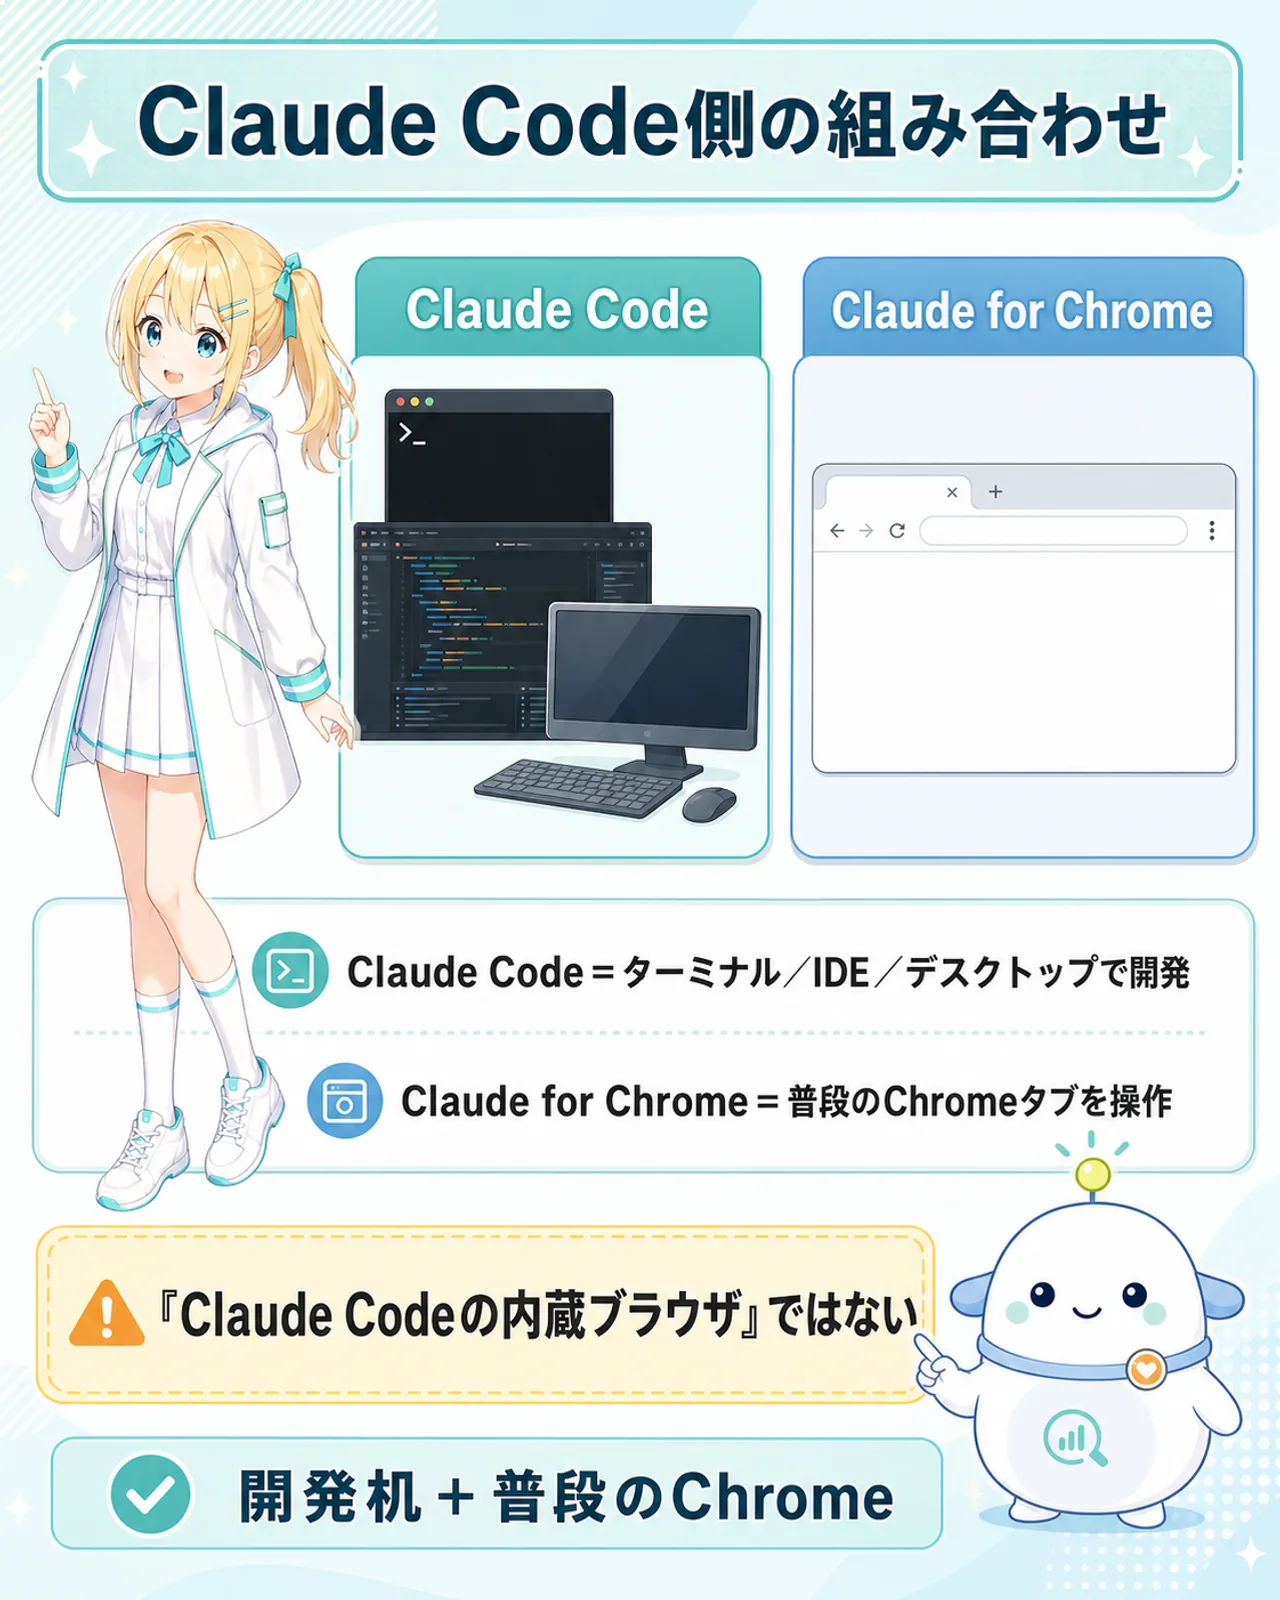
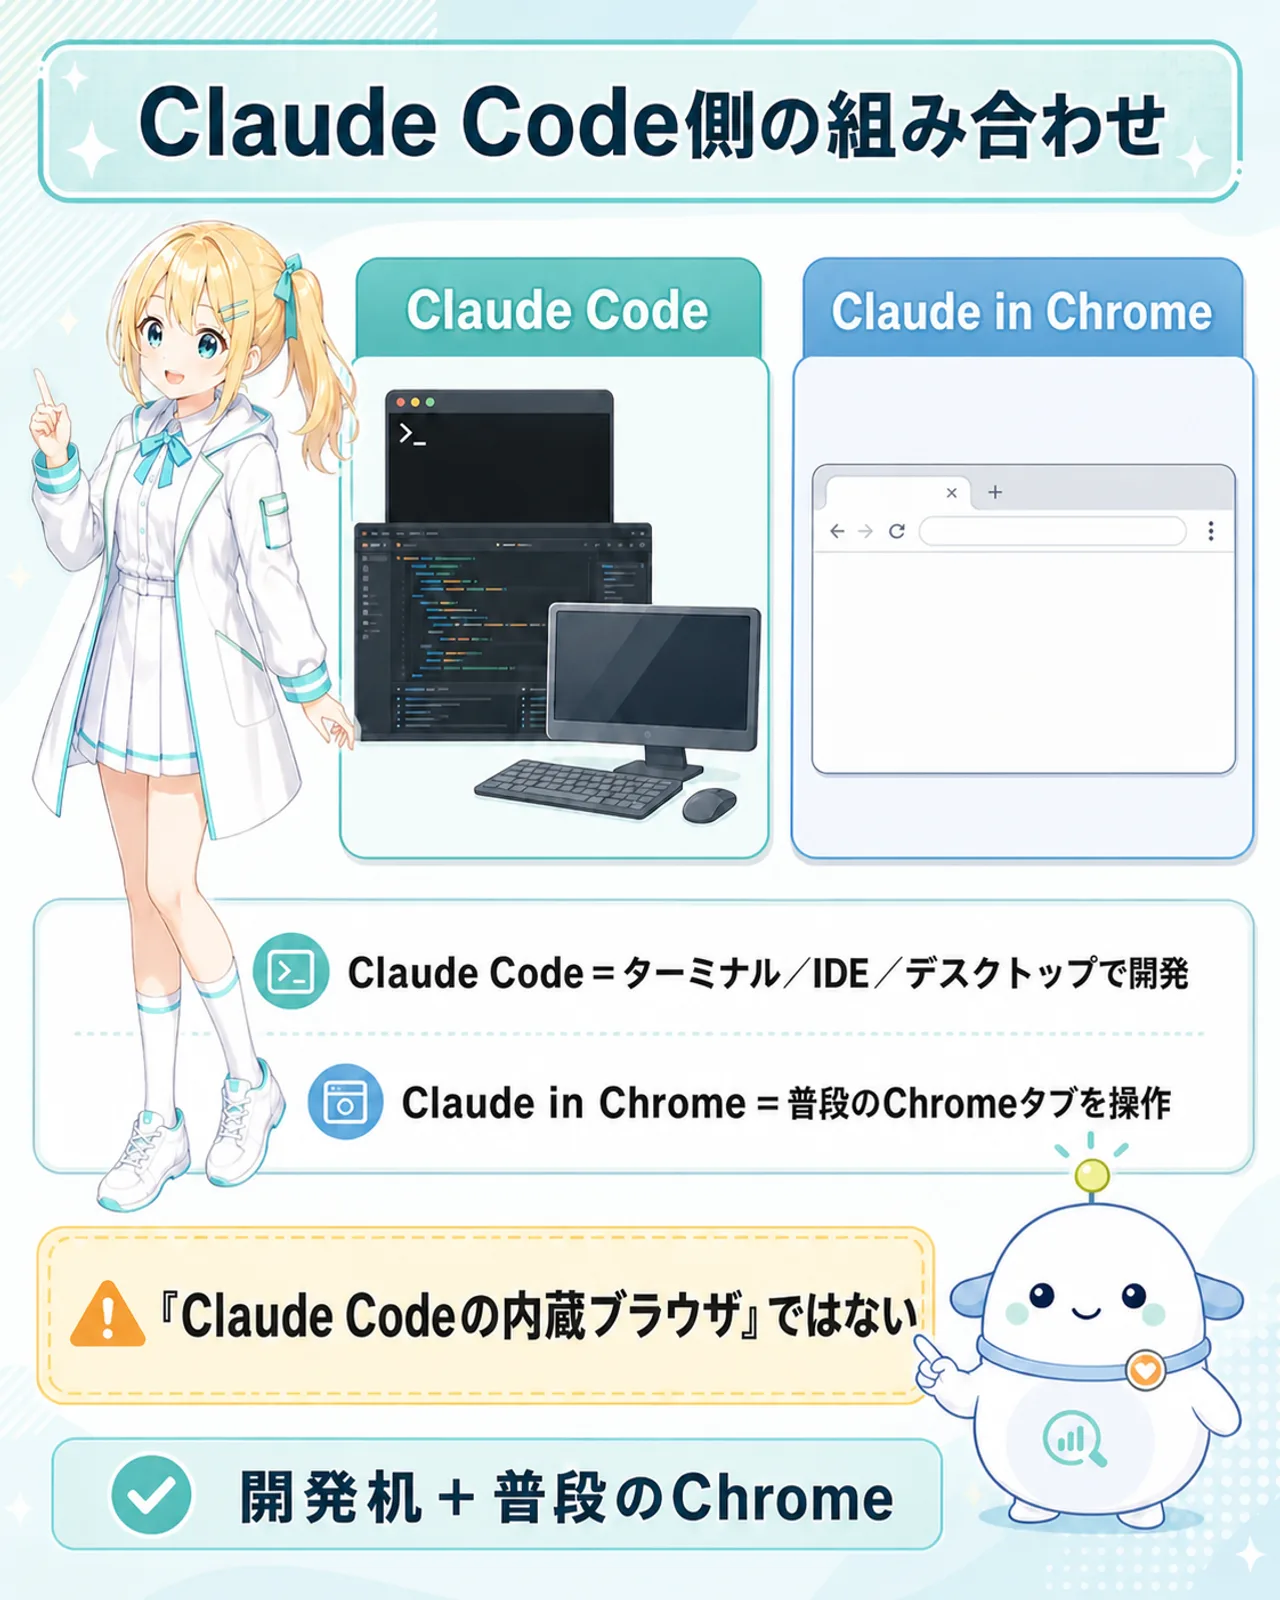
fix: correct Codex article names and add hands-on category

diff --git a/src/lib/categories.ts b/src/lib/categories.ts
@@ -5,6 +5,11 @@ export const categories = [
     description: "AI・スマホ・ガジェットのニュースを、普通の人にもわかるように整理します。",
   },
   {
+    name: "やってみた・検証",
+    slug: "hands-on",
+    description: "実際に使って・試して分かったことを、体験ベースで整理します",
+  },
+  {
     name: "スマホの選び方",
     slug: "smartphone",
     description: "iPhone、Android、中古スマホなど、買い替えや選び方で迷いやすいポイントを整理します。",

diff --git a/src/styles/global.css b/src/styles/global.css
@@ -57,6 +57,8 @@
 
   --cat-news: #34549c;
   --cat-news-tint: #e8edf8;
+  --cat-hands-on: #9a5b00;
+  --cat-hands-on-tint: #fbf2e0;
   --cat-smartphone: #3a7d8a;
   --cat-smartphone-tint: #dfecef;
   --cat-mobile-plan: #1f7a6e;
@@ -145,6 +147,7 @@ html.dark {
 
   --cat-news: #9ab2ec;
   --cat-news-tint: #232d42;
+  --cat-hands-on-tint: #332813;
   --cat-smartphone: #6cb0bd;
   --cat-smartphone-tint: #1d2c30;
   --cat-mobile-plan: #63c7b8;

diff --git a/src/content.config.ts b/src/content.config.ts
@@ -4,6 +4,7 @@ import { glob } from "astro/loaders";
 const articleType = z.enum(["foundation", "revenue", "news"]);
 const articleCategory = z.enum([
   "ニュースをかみくだく",
+  "やってみた・検証",
   "スマホの選び方",
   "通信費を下げる",
   "周辺機器・ガジェット",

diff --git a/docs/affiliate_setup.md b/docs/affiliate_setup.md
@@ -8,7 +8,7 @@
 
 ## 0. すまラボの設計（前提の再確認）
 
-- **二層構造**: ニュース記事（type: news）には広告を入れない。収益導線は資産記事（type: revenue / foundation の比較・選び方系）と「周辺機器・ガジェット」「スマホの選び方」「通信費を下げる」カテゴリ限定
+- **二層構造**: ニュース記事（type: news）と「やってみた・検証」（hands-on）には当面広告を入れない。収益導線は資産記事（type: revenue / foundation の比較・選び方系）と「周辺機器・ガジェット」「スマホの選び方」「通信費を下げる」カテゴリ限定
 - **主軸 = 物販**（Amazon / 楽天 / Yahoo!ショッピング、**もしもアフィリエイト**経由）
 - **従 = SIM 系など高単価 ASP 案件**（**A8.net**、資産記事限定・CTABox 使用）
 - 広告を含む記事は frontmatter `hasAffiliate: true` → 記事冒頭に広告表示ラベルが自動表示（景表法ステマ規制対応）。ラベル無し・ニュース混入は `sumalabo:gate` が不合格にする
@@ -101,6 +101,6 @@ SIM 系など高単価案件用。**登録時サイト審査が実質なし**で
 ## 6. 運用ルール（再掲・gate が機械的に強制するもの）
 
 - アフィリエイトリンク / ProductCard / CTABox / AffiliateLinks を含む記事は **`hasAffiliate: true` 必須**（無いと gate 不合格）→ 記事冒頭に「本記事は広告（アフィリエイトリンク）を含みます」が自動表示
-- **type: news の記事にアフィリエイトは一切不可**（リンク・コンポーネント・hasAffiliate すべて gate 不合格）
+- **type: news または category: やってみた・検証 の記事にアフィリエイトは当面不可**（リンク・コンポーネント・hasAffiliate すべて gate 不合格）。将来解禁する場合も `hasAffiliate: true` と広告表示を必須にする。
 - 台帳（ledger.json）に `hasAffiliate` が写像される（`ledger.mjs --sync`）。広告あり記事の流入・成果分析の下地
 - リンクの rel は自動制御: アフィリエイト時 `nofollow sponsored noopener` / 通常リンク時 `noopener`

diff --git a/docs/update_rhythm.md b/docs/update_rhythm.md
@@ -2,11 +2,12 @@
 
 すまラボの「何を・どの頻度で・どう更新するか」を固定する文書。
 
-## 記事の3レーン
+## 記事の4レーン
 
 | レーン | 頻度 | テンプレ | ソース |
 |---|---|---|---|
 | ニュース記事（流入） | testMode/無人runの自動運転（1晩1本まで） | A ニュース解説 / B 続報・経緯型 | scout（RSS収集→採点→autoPick） |
+| **独自・検証レーン（鮮度で古びない資産記事）** | **実体験・検証テーマがあるとき** | **体験起点（試したこと→変化→一般化できる教訓）** | 当サイトの実体験・運用実例・実機検証 |
 | **資産記事（evergreen）** | **月1本** | **C 比較・選び方型（結論の表を先に）** | `drafts/ideas-evergreen.md` の上から順に消化 |
 | 既存記事の更新 | 随時（事実が動いたとき） | 元記事のまま | 鮮度チェック（7日ルール）・公式変更の検知 |
 
@@ -17,6 +18,12 @@
 3. ニュース記事と同じ品質ゲートを通す（gate full / 画像ファクトチェック / 禁則）
 4. 公開後は `ideas-evergreen.md` の該当行に公開URLを追記して消化管理
 5. **月次メンテ**: 公開済み資産記事は毎月1回、事実（価格・提供条件）を公式で見直し、変更があれば本文修正 + frontmatter `updated` を更新（sitemap の lastmod が動き、検索エンジンに更新が伝わる）
+
+## 独自・検証レーンの分類ルール
+
+- 当サイトの実体験・実機検証・運用実例が記事の核なら、カテゴリは `やってみた・検証`（`hands-on`）にする。
+- 単なる新製品発表の紹介や公式発表の要約は、従来どおり `ニュースをかみくだく` にする。
+- `hands-on` は当面ニュースレーンと同じ無広告原則を適用する。将来、検証記事に関連商品を載せる場合は `hasAffiliate` と広告表示の運用を先に整備してから変更する。
 
 ## 陳腐化を防ぐ書き方（資産記事共通）
 

diff --git a/drafts/refinement/202607-openai-codex-claude-code-browser-imagegen/research_report.md b/drafts/refinement/202607-openai-codex-claude-code-browser-imagegen/research_report.md
@@ -10,7 +10,7 @@
 - Codex/ChatGPTのbuilt-in画像生成はgpt-image-2を使い、一般のCodex利用上限から消費される。CLIでは参照画像を添付でき、成果物をファイルとして保存できる。
 - Computer Useは対応地域のmacOS/Windowsで、Work modeまたはCodexからGUIを操作できる。macOSにはバックグラウンド/Locked use系の機能があるが、地域・OS・設定に依存する。
 - Claude Codeはターミナルからコードベースを読み、ファイルを変更し、テストを実行するエージェント型コーディングシステム。ターミナル、IDE、Claude Desktopからローカル/リモートセッションを扱える。
-- Claude for ChromeはClaude Code本体ではなく、ClaudeがユーザーのChromeタブを操作する拡張。既存タブ・ログイン済みサイトを使える。
+- Claude in ChromeはClaude Code本体ではなく、ClaudeがユーザーのChromeタブを操作する拡張。既存タブ・ログイン済みサイトを使える。
 - Claude Pro/MaxではClaudeアプリとClaude Codeが利用枠を共有する。
 
 ## 本サイトの運用実例（一次資料=リポジトリ内の運用記録）
@@ -40,6 +40,5 @@
 - OpenAI Computer Use: https://learn.chatgpt.com/docs/computer-use
 - Anthropic Claude Code: https://www.anthropic.com/product/claude-code
 - Anthropic Claude Code setup: https://docs.anthropic.com/en/docs/claude-code/getting-started
-- Anthropic Claude Code in desktop / Claude for Chrome: https://www.anthropic.com/news/claude-opus-4-5
+- Anthropic Claude Code in desktop / Claude in Chrome: https://www.anthropic.com/news/claude-opus-4-5
 - Anthropic Pro/Max shared usage: https://support.anthropic.com/en/articles/11145838-using-claude-code-with-your-pro-or-max-plan
-

diff --git a/drafts/refinement/202607-openai-codex-claude-code-browser-imagegen/slide_plan.md b/drafts/refinement/202607-openai-codex-claude-code-browser-imagegen/slide_plan.md
@@ -26,7 +26,7 @@
 
 ## slide04（4:5）— Claude Codeとの違い
 - 見出し帯: Claude Code側の組み合わせ
-- 要素: Claude Code=ターミナル/IDE/デスクトップで開発 / Claude for Chrome=普段のChromeタブを操作 / 「Claude Codeの内蔵ブラウザ」ではない / 開発机+普段のChrome
+- 要素: Claude Code=ターミナル/IDE/デスクトップで開発 / Claude in Chrome=普段のChromeタブを操作 / 「Claude Codeの内蔵ブラウザ」ではない / 開発机+普段のChrome
 - キャラ: ひまりが名称カードを分け、らぼまるが混同注意。中立。
 
 ## slide05（4:5）— ログイン・準備・安定性
@@ -50,8 +50,7 @@
 - キャラ: ひまりが少ない手数の道を選び、らぼまるが「何をさせたいかで選ぼう」。明るい締め。
 
 ## 生成メモ
-- 全9枚で日本語の誤字を最優先検品。「Codex」「Claude Code」「Claude for Chrome」「localhost」の表記を厳守。
+- 全9枚で日本語の誤字を最優先検品。「Codex」「Claude Code」「Claude in Chrome」「localhost」の表記を厳守。
 - 実在企業ロゴは描かず、英字名は文字情報としてのみ使う。
 - キャラクター正本2枚を毎回参照。らぼまるは黄緑アンテナ1本、青い首輪バンド、左右の青い耳ビレ、胸のオレンジのハートボタンを保持。
 - 生成工程と独立検品は分離する。
-

diff --git a/drafts/refinement/202607-openai-codex-claude-code-browser-imagegen/editorial_selection.md b/drafts/refinement/202607-openai-codex-claude-code-browser-imagegen/editorial_selection.md
@@ -10,7 +10,7 @@
 
 1. Codexは「コードを書くAI」より、ファイル・ブラウザ・画像・検証をまたいで完了条件まで進む働くAIと説明する。
 2. 内蔵ブラウザは専用プロファイル、Chrome拡張は普段のChromeという差を、ログイン・準備・安定性の3軸で整理する。
-3. Claude CodeとClaude for Chromeを混同しない。Claude Codeはターミナル/デスクトップ側、ブラウザ操作はClaude for Chromeと明示する。
+3. Claude CodeとClaude in Chromeを混同しない。Claude Codeはターミナル/デスクトップ側、ブラウザ操作はClaude in Chromeと明示する。
 4. 本サイトの画像運用変更は1段落に抑え、誇張せず「生成以前の格闘が消えた」と説明する。
 5. 結論は4象限（会話と執筆 / コード / ブラウザ / 画像量産）。どちらが上かではなく、何をさせたいかで選ぶ。
 
@@ -28,4 +28,3 @@
 - 作ったWebをlocalhostで確認し、環境を分離したい → 内蔵ブラウザが便利
 - コード中心 → どちらも候補。既存の開発習慣と指示資産で決める
 - 画像を繰り返しファイル化したい → UI操作の段数より、保存まで自動化できる経路を優先
-

diff --git a/drafts/refinement/202607-openai-codex-claude-code-browser-imagegen/revised_article.md b/drafts/refinement/202607-openai-codex-claude-code-browser-imagegen/revised_article.md
@@ -2,10 +2,9 @@
 
 # 修正反映メモ
 
-- 「Claude CodeのChrome拡張」を「Claude for Chrome」に修正し、製品境界を明記。
+- 「Claude CodeのChrome拡張」を正式表記「Claude in Chrome」に修正し、製品境界を明記。
 - Codexの提供面は公式マニュアルどおり、デスクトップ/Web・クラウド/CLI/IDE/iOSを中心に記述。
 - 内蔵ブラウザは専用プロファイル、既存ログイン利用はChrome拡張という例外を追加。
 - 本サイト実例は、CF_HDROP・フォーカス・待機・ダウンロードという工程が消えた範囲に限定。
 - ベンチマーク・知能優劣を削除。判断表を4用途に整理。
 - 最新機能はOS・地域・プラン依存の注記を追加。
-

diff --git a/drafts/refinement/202607-openai-codex-claude-code-browser-imagegen/review_report.md b/drafts/refinement/202607-openai-codex-claude-code-browser-imagegen/review_report.md
@@ -6,7 +6,7 @@
 
 - Codexの公式な提供面とPlus以上の利用を公式マニュアルで確認。API利用は別課金として分離。OK。
 - 内蔵Browserは専用プロファイル、Chrome拡張は既存プロファイルという公式説明に合わせた。OK。
-- Claude CodeとClaude for Chromeを別製品として記述。OK。
+- Claude CodeとClaude in Chromeを別製品として記述。OK。
 - Computer Use/バックグラウンド系は対応地域・OS・設定依存と明記。OK。
 
 ## Pass 2 — 中立性・すまラボらしさ
@@ -30,4 +30,3 @@
 4. facts/claims/uncertainを分離: pass
 5. 禁則表現0件: pass
 6. スライド8枚+サムネの論点確定: pass
-

diff --git a/docs/uwsc_chatgpt_file_attach_test.md b/docs/uwsc_chatgpt_file_attach_test.md
@@ -72,7 +72,7 @@
 
 ## 成功した順序（人間が事前に整える）
 
-- ChromeにClaude for Chrome拡張をインストールし、Claude Codeセッションとペアリングする
+- ChromeにClaude in Chrome拡張をインストールし、Claude Codeセッションとペアリングする
 - 接続名はChromeとわかる名前にする（Edgeの拡張は使わない）
 - UWSCをインストールし、`D:\documents\uwsc5302\UWSC.exe` から実行できる状態にする
 - ベース画像が `public/images/characters/base/{himari,labomaru}-base.png` に存在することを確認
